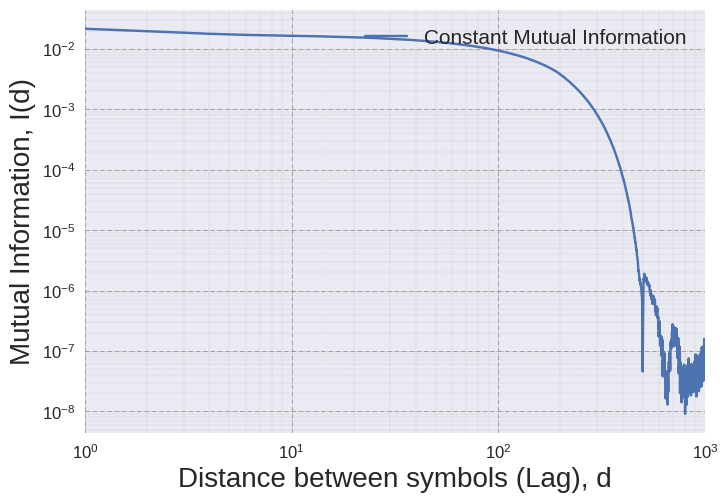
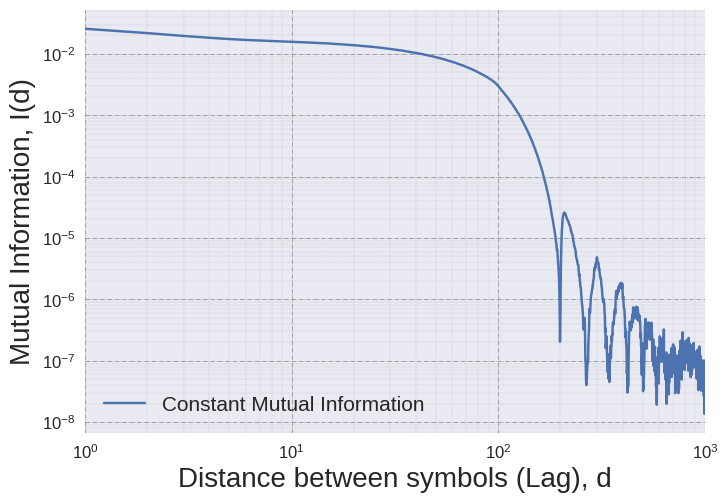
Up

diff --git a/paper_related/spk/plot_sp.py b/paper_related/spk/plot_sp.py
@@ -78,7 +78,7 @@ with plt.style.context(('seaborn')):
     # plt.loglog(np.arange(1,len(all_mi[20])+1), all_mi[20], label="SP8, L=100, V=26")
     # plt.loglog(np.arange(1,len(all_mi[21])+1), all_mi[21], label="SP10, L=100, V=26")
 
-    plt.loglog(np.arange(1,len(all_mi[3])+1), all_mi[3], label="Constant Mutual Information")
+    plt.loglog(np.arange(1,len(all_mi[2])+1), all_mi[2], label="Constant Mutual Information")
 
     plt.tick_params(labelsize='large', width=5)
     plt.grid(True)
